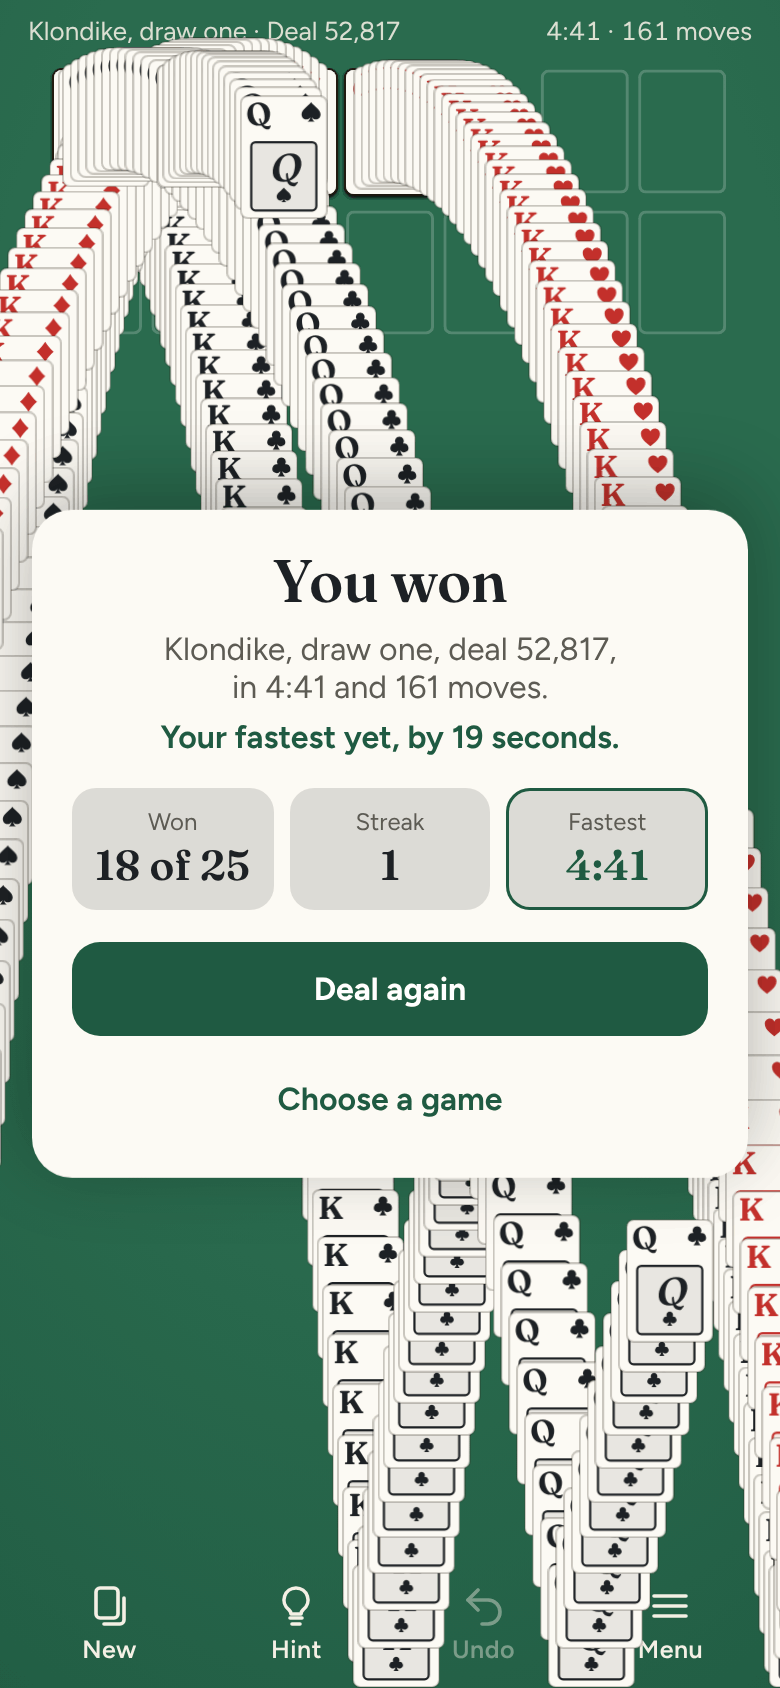
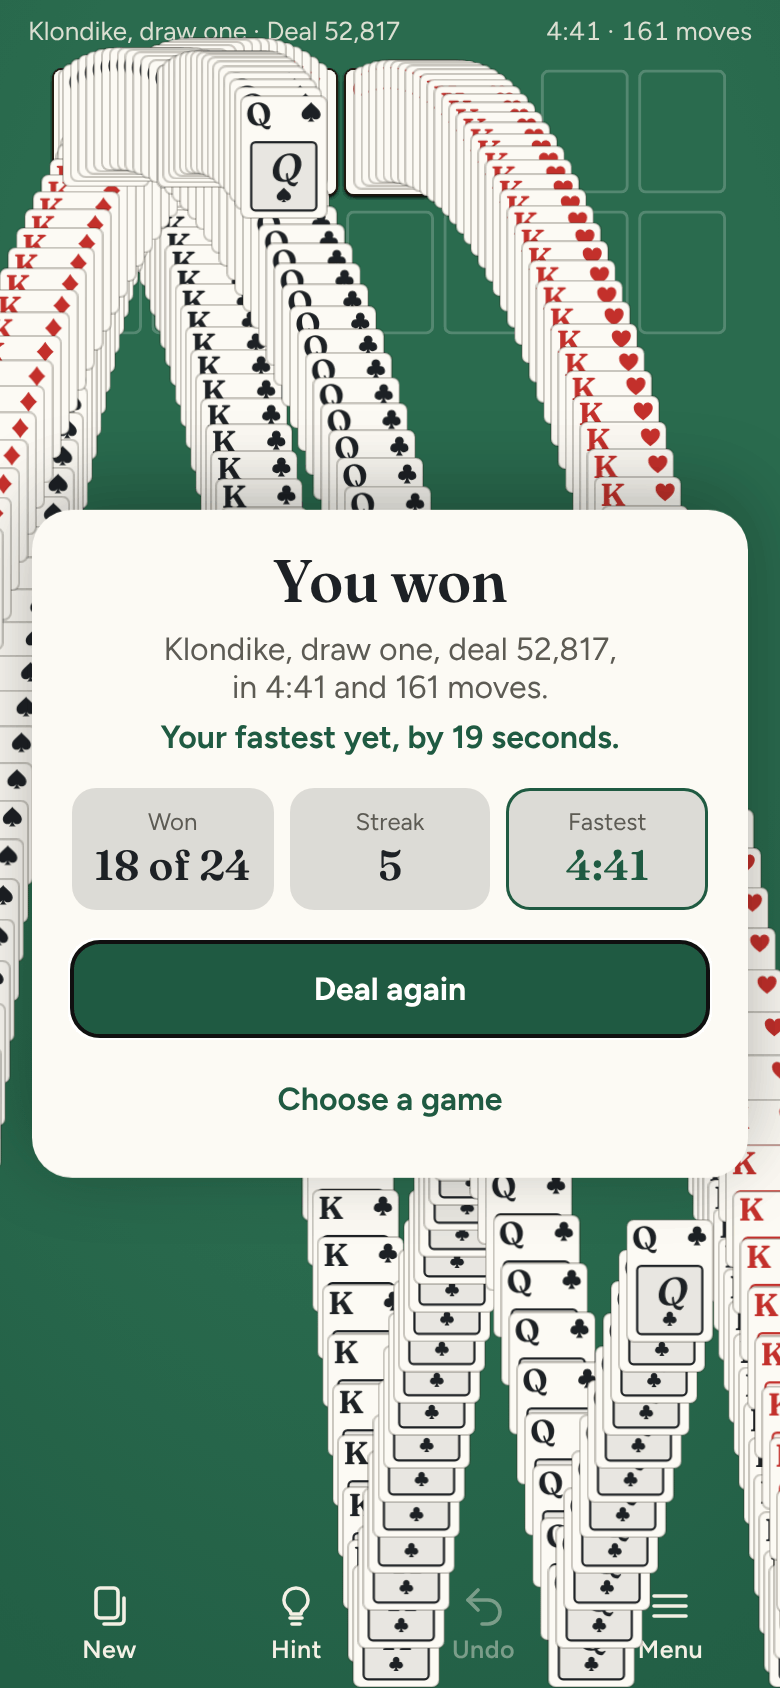
The README and the menu say what N does, list all five settings and run it with npm start, and the won picture shows the streak going on
The README and the menu said N starts a new game, but it opens New game, where Enter deals another of the same; Space does nothing in FreeCell, which has no deck; the README listed three of the five settings; and it served the game with npx serve, though npm start is set up with caching off, which suits a game that keeps an offline copy. The won picture showed a streak of 1, because the tool had played the Klondike picture's game a move and then left it, a loss, before winning; it now wins on a page of its own, so the panel shows the record's streak going on to 5. The one-file copy no longer says to add it to your home screen, which a file can't be. This also sets the offline copy's fingerprint in sw.js, which the commit before this one left at its old value.

Claude-Session: https://claude.ai/code/session_01PQbLNWcaN23kNnArnK42HQ

diff --git a/index.html b/index.html
@@ -130,7 +130,7 @@
             <li>Any card or run of one suit can go in an empty column.</li>
           </ul>
         </details>
-        <p class="small">In every game, tap a card to send it to the best place, or drag it where you want it. Hint lights up a card and where it goes: tap either one and the move is played. On a keyboard: <kbd>Space</kbd> uses the deck, <kbd>Z</kbd> undoes, <kbd>H</kbd> gives a hint, <kbd>Enter</kbd> plays it and <kbd>N</kbd> starts a new game.</p>
+        <p class="small">In every game, tap a card to send it to the best place, or drag it where you want it. Hint lights up a card and where it goes: tap either one and the move is played. On a keyboard: <kbd>Space</kbd> uses the deck in Klondike and Spider, <kbd>Z</kbd> undoes, <kbd>H</kbd> gives a hint, <kbd>Enter</kbd> plays it and <kbd>N</kbd> opens New game (<kbd>Enter</kbd> there deals another of the same).</p>
       </div>
       <p class="small">No ads, no account. Your game and your record stay on this device, and once it has loaded it works with no signal. Add it to your home screen to keep it like an app.</p>
 

diff --git a/sw.js b/sw.js
@@ -8,7 +8,7 @@
 // fingerprint of every file in SHELL: change any of them and test/e2e.mjs fails until FILES is changed to match (it
 // says what to), which changes this file, so every copy is made whole again at once.
 const CACHE = 'patience-v6'; // bump the number when the file list changes
-const FILES = '4d8da3e6'; // test/e2e.mjs checks this
+const FILES = '714cd8e3'; // test/e2e.mjs checks this
 const SHELL = [
   './', 'index.html', 'carry.js', 'icon.svg', 'manifest.webmanifest', 'icon-180.png', 'icon-192.png',
   'css/app.css', 'fonts/fraunces.woff2', 'fonts/figtree.woff2',

diff --git a/README.md b/README.md
@@ -14,7 +14,7 @@
 <p align="center">
   <img src="docs/phone-new.png" alt="The New game sheet: Klondike drawing one or three, FreeCell, and Spider with one, two or four suits, each with a line about how it plays" width="250">
   &nbsp;
-  <img src="docs/phone-won.png" alt="A won Klondike game: the cards bouncing off the foundations and leaving trails across the table, behind a panel saying You won, deal 52,817, in 4:41 and 161 moves, your fastest yet by 19 seconds, 18 won of 25" width="250">
+  <img src="docs/phone-won.png" alt="A won Klondike game: the cards bouncing off the foundations and leaving trails across the table, behind a panel saying You won, deal 52,817, in 4:41 and 161 moves, your fastest yet by 19 seconds, 18 won of 24 and a streak of 5" width="250">
 </p>
 
 ## How it plays
@@ -29,8 +29,8 @@
 - **Cards go up by themselves** in Klondike and FreeCell once nothing on the table could still need them, and when the rest is in order the game finishes itself. You can switch the first part off.
 - **The bouncing cards** when you win, as tradition requires.
 - **Your record** for each of the six ways of playing: games played, won, win rate, streak, best streak and fastest win.
-- **Settings:** four-colour suits (clubs green, diamonds blue), the deck on the left instead of under your right thumb, and hiding the time and moves.
-- **On a keyboard,** Space uses the deck, Z undoes, H gives a hint, Enter plays it and N starts a new game.
+- **Settings:** only deal games that can be won, send cards up by themselves, show the time and moves, four-colour suits (clubs green, diamonds blue), and the deck on the left instead of under your right thumb.
+- **On a keyboard,** Space uses the deck in Klondike and Spider, Z undoes, H gives a hint, Enter plays it and N opens New game (Enter there deals another of the same).
 - No ads, no account and no server. Your game, your record and your settings stay in your browser. It works offline and installs to a phone's home screen.
 
 ## Running it
@@ -38,7 +38,7 @@
 It's a static site: plain HTML, CSS and JavaScript, with no build step.
 
 ```sh
-npx serve .                       # or any static file server, then open the printed address
+npm start                         # or any static file server; then open http://localhost:8080
 npm install                       # once, for the bundler and the PNG compressor the screenshot and icon tools use
 npm test                          # the rules and the solvers in Node, then every game played in Chromium (needs Playwright)
 node tools/screenshots.mjs        # redraws docs/*.png and og.png (--check lists any that no longer match, changing nothing)
